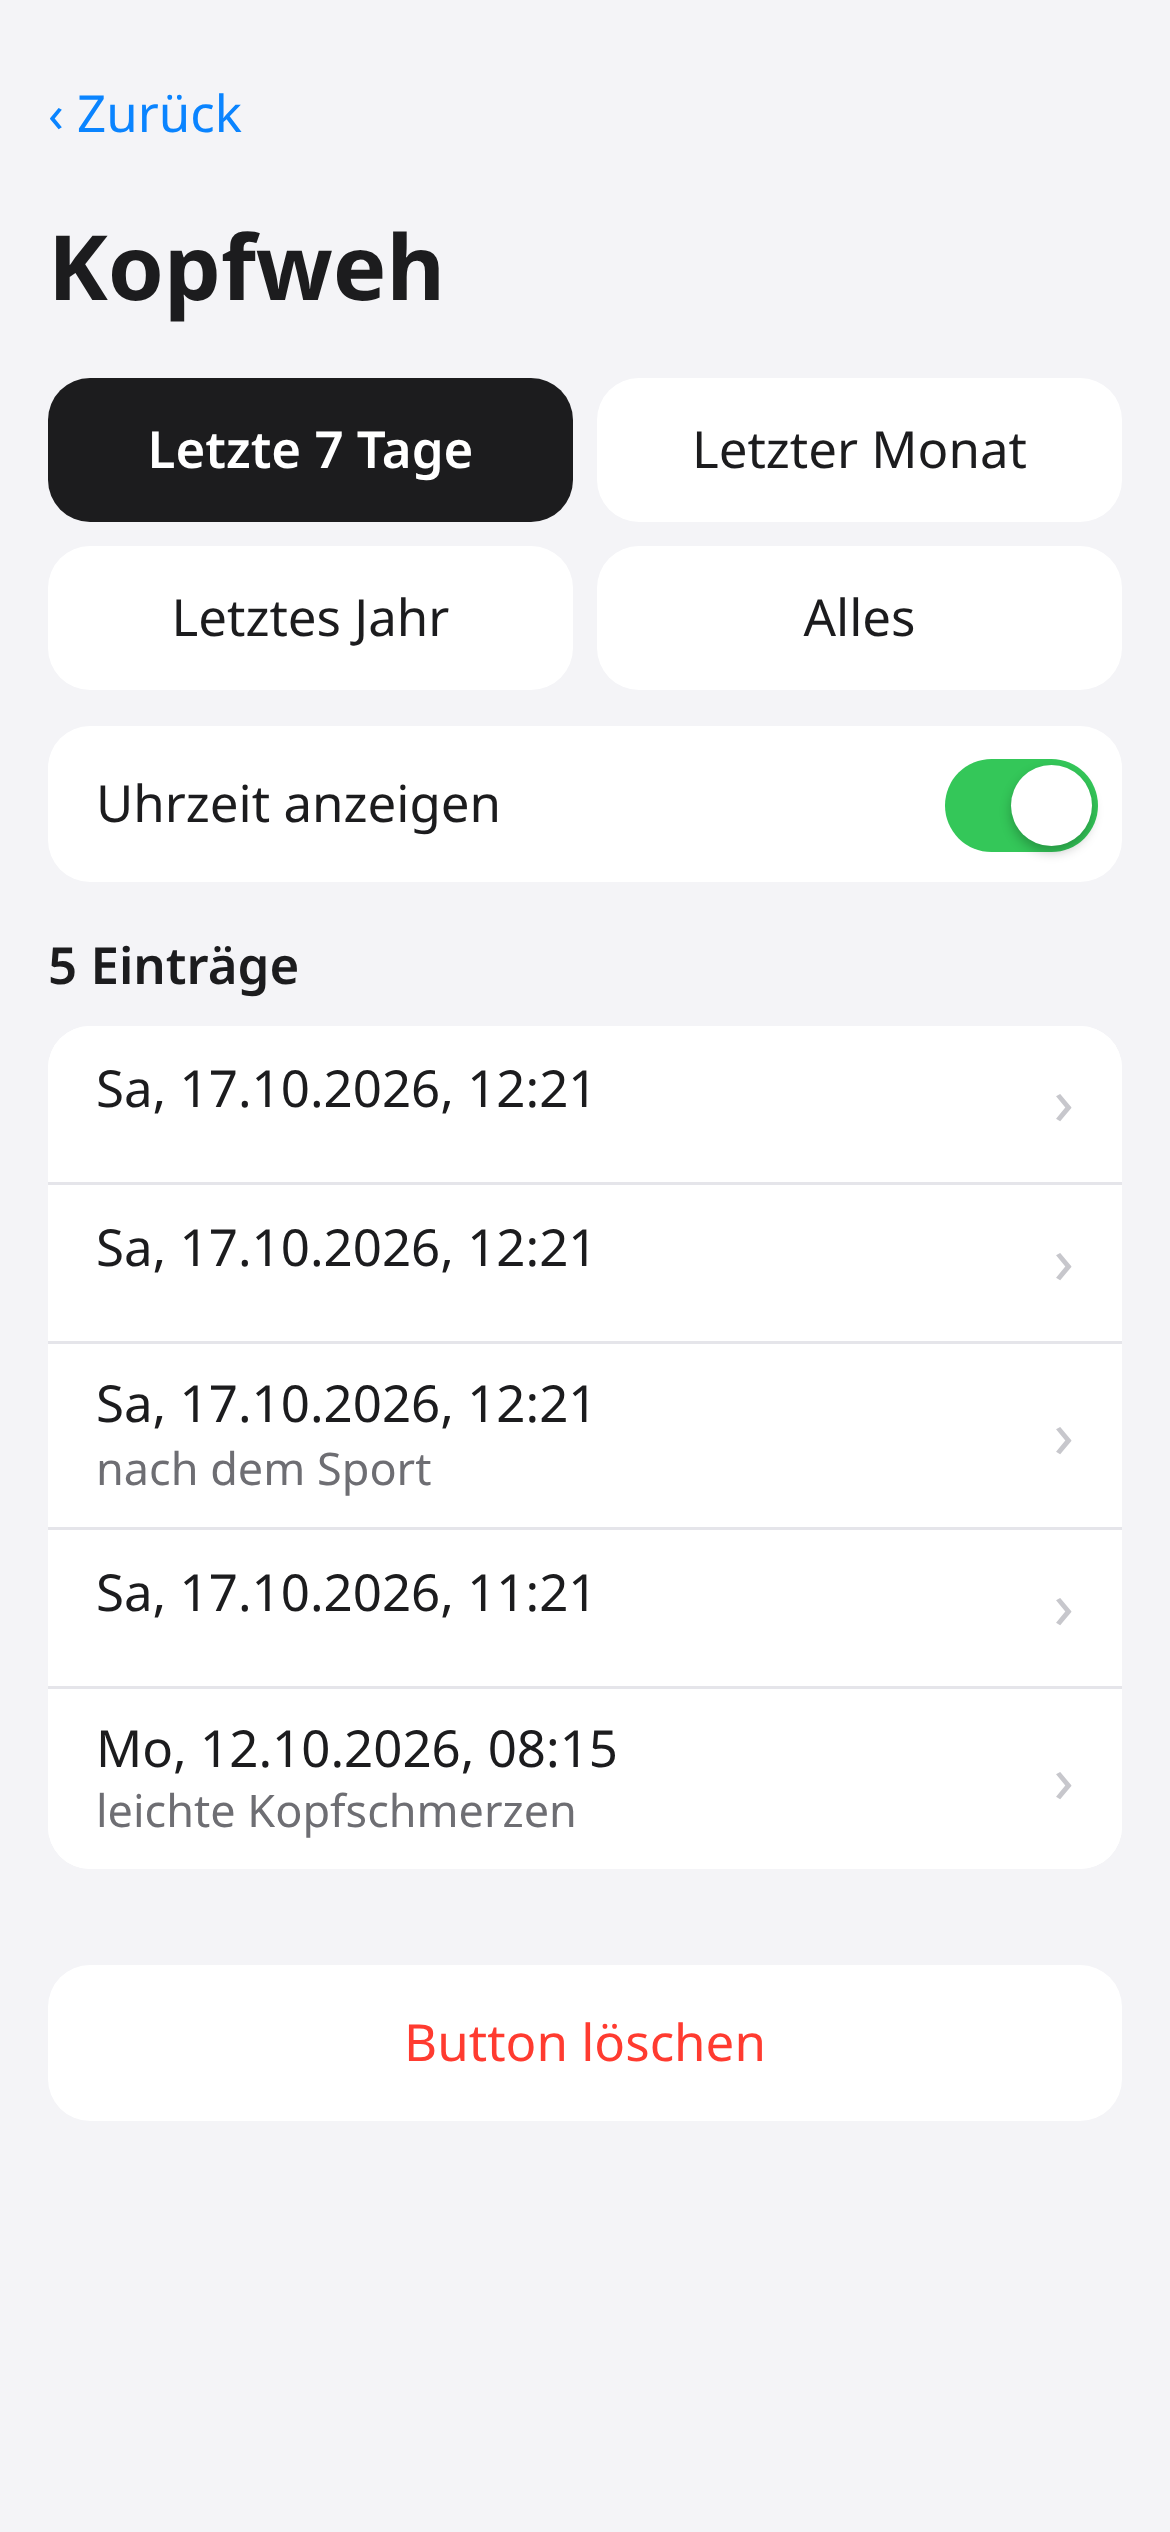
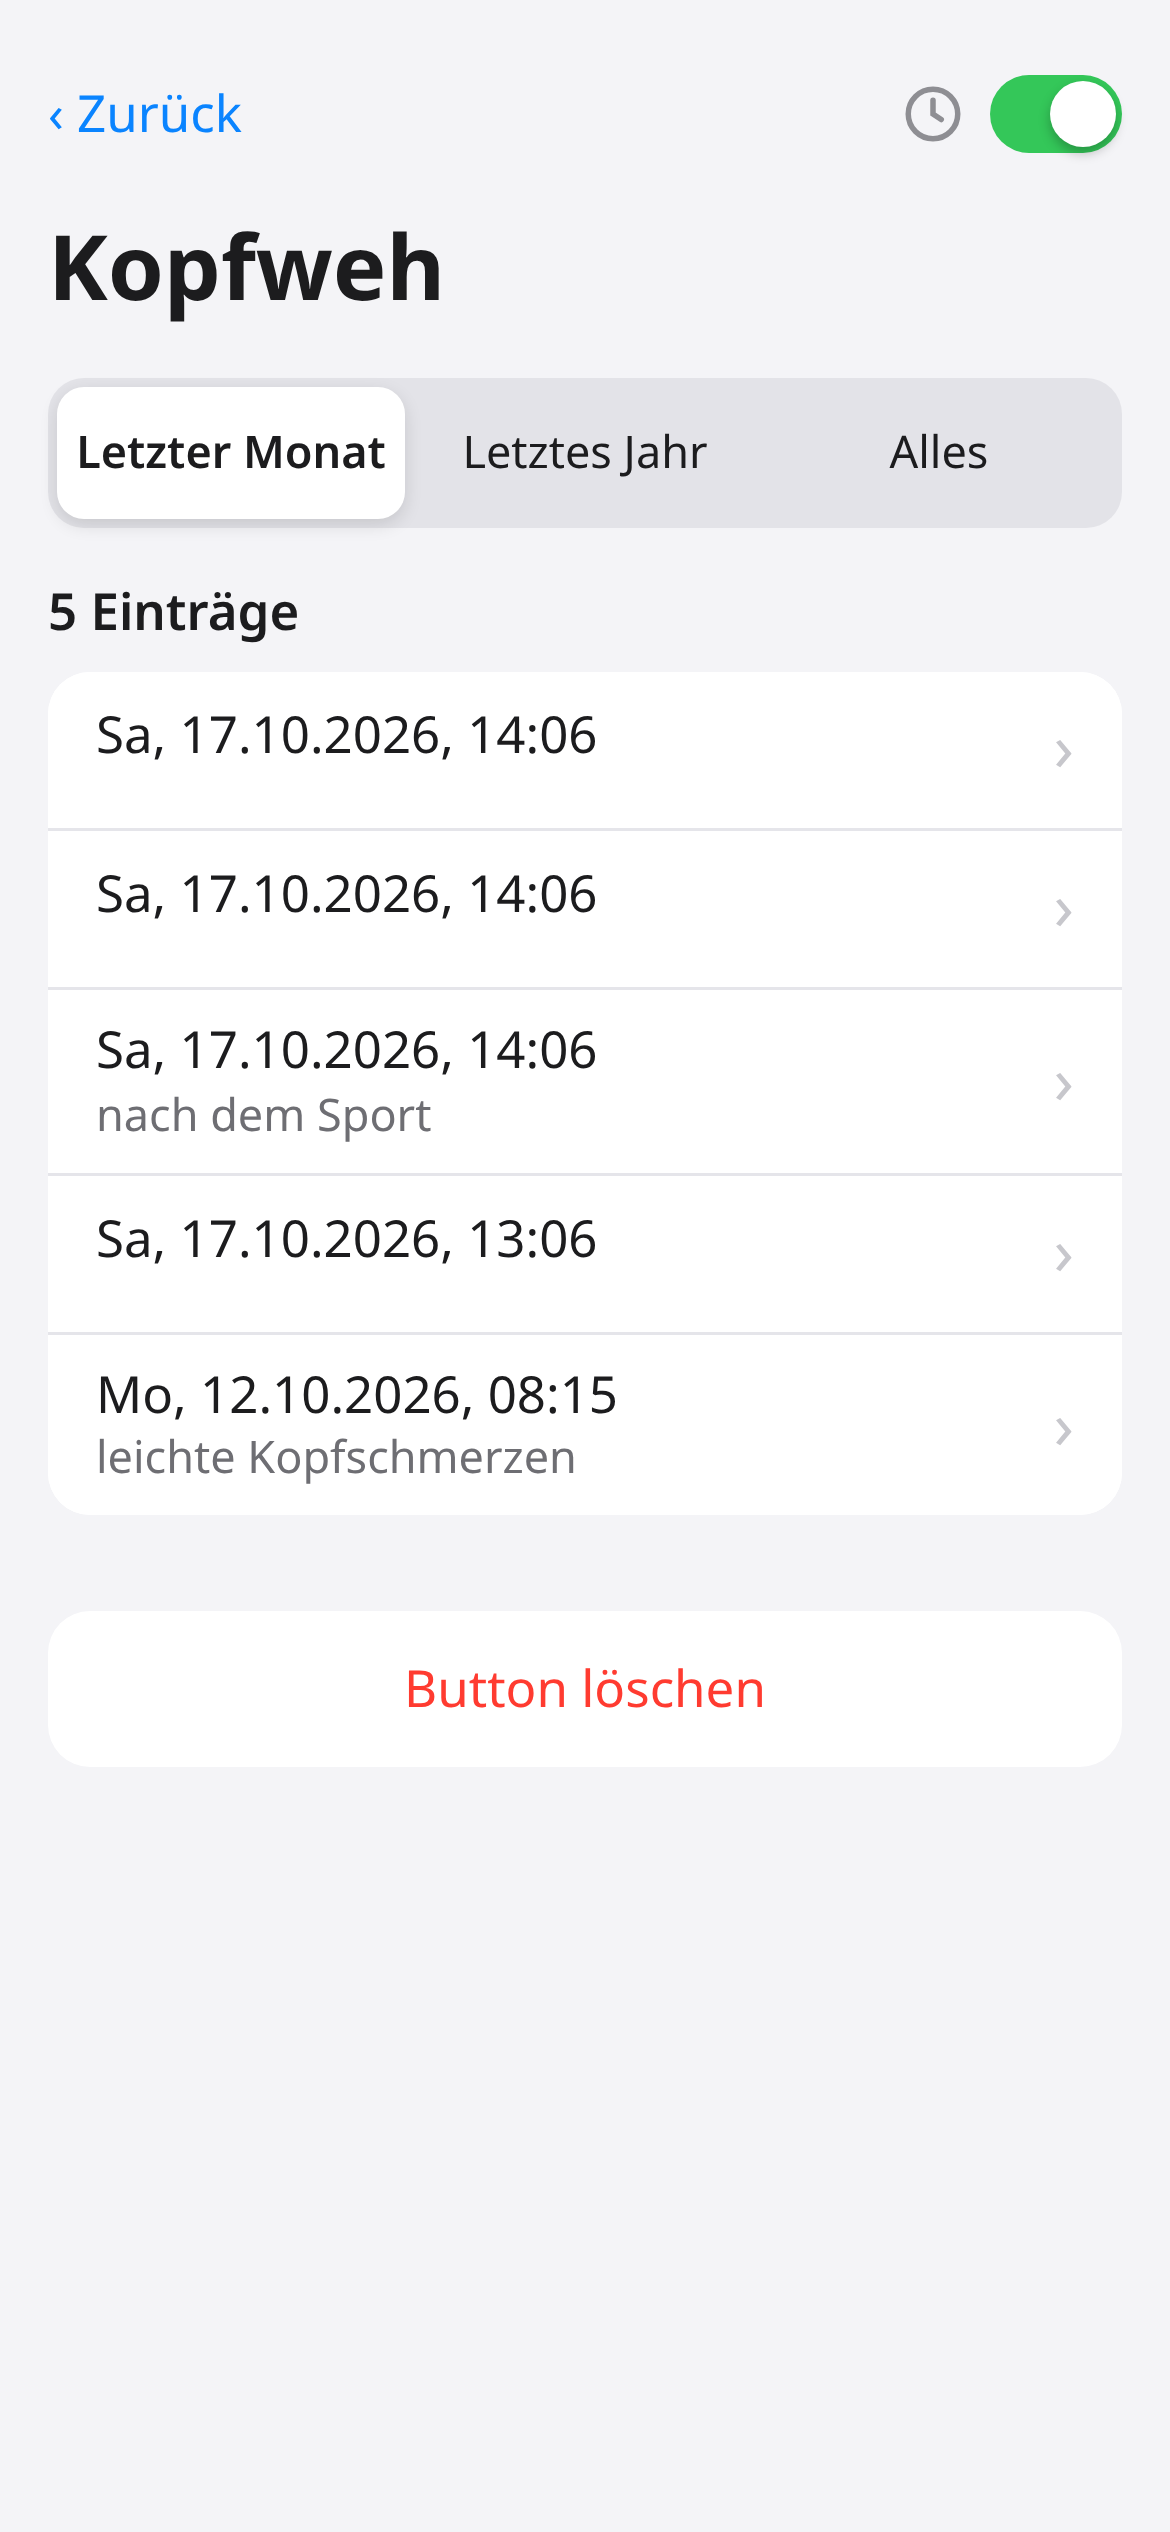
Liste: Filter Monat/Jahr/Alles in einer Zeile (Standard Monat), Uhrzeit-Schalter mit Uhr-Symbol oben rechts; SW-Cache v6

diff --git a/style.css b/style.css
@@ -19,9 +19,9 @@ button { cursor: pointer; color: inherit; background: #fff; }
 #add button { height: 52px; padding: 0 16px; background: #1c1c1e; color: #fff; font-weight: 600; }
 .hint { color: #8e8e93; }
 .link { background: none; color: #0a84ff; padding: 10px 0; min-height: 44px; }
-#filters { display: grid; grid-template-columns: 1fr 1fr; gap: 8px; }
-#filters button { min-height: 48px; }
-#filters .on { background: #1c1c1e; color: #fff; font-weight: 600; }
+#filters { display: grid; grid-template-columns: repeat(3, 1fr); gap: 2px; padding: 3px; background: #e3e3e8; border-radius: 12px; }
+#filters button { min-height: 44px; background: none; border-radius: 9px; font-size: 15px; padding: 0 4px; }
+#filters .on { background: #fff; font-weight: 600; box-shadow: 0 2px 6px rgba(0,0,0,.12); }
 #count { font-weight: 600; margin: 16px 0 8px; }
 #entries { list-style: none; padding: 0; margin: 0; background: #fff; border-radius: 14px; overflow: hidden; }
 #entries li { border-bottom: 1px solid #e5e5ea; }
@@ -30,11 +30,11 @@ button { cursor: pointer; color: inherit; background: #fff; }
 #entries button { display: grid; grid-template-columns: 1fr auto; width: 100%; min-height: 52px; padding: 8px 16px; text-align: left; border-radius: 0; align-items: center; }
 #entries small { grid-column: 1; color: #6e6e73; font-size: 15px; word-break: break-word; }
 #entries i { grid-column: 2; grid-row: 1 / span 2; color: #c7c7cc; font-style: normal; font-size: 22px; }
-.switch { display: flex; align-items: center; justify-content: space-between; margin-top: 12px; padding: 8px 8px 8px 16px; background: #fff; border-radius: 14px; min-height: 52px; }
-.switch input { appearance: none; -webkit-appearance: none; margin: 0; width: 51px; height: 31px; border-radius: 16px; background: #e5e5ea; position: relative; transition: background .2s; cursor: pointer; }
-.switch input::after { content: ""; position: absolute; top: 2px; left: 2px; width: 27px; height: 27px; border-radius: 50%; background: #fff; box-shadow: 0 2px 4px rgba(0,0,0,.25); transition: transform .2s; }
+.switch { display: flex; align-items: center; gap: 8px; min-height: 44px; color: #8e8e93; cursor: pointer; }
+.switch input { appearance: none; -webkit-appearance: none; margin: 0; width: 44px; height: 26px; border-radius: 13px; background: #e5e5ea; position: relative; transition: background .2s; cursor: pointer; }
+.switch input::after { content: ""; position: absolute; top: 2px; left: 2px; width: 22px; height: 22px; border-radius: 50%; background: #fff; box-shadow: 0 2px 4px rgba(0,0,0,.25); transition: transform .2s; }
 .switch input:checked { background: #34c759; }
-.switch input:checked::after { transform: translateX(20px); }
+.switch input:checked::after { transform: translateX(18px); }
 dialog { width: 100%; max-width: 500px; margin: auto auto 0; border: 0; border-radius: 20px 20px 0 0; padding: 20px max(20px, env(safe-area-inset-left)) calc(20px + env(safe-area-inset-bottom)); background: #f4f4f7; color: inherit; }
 dialog::backdrop { background: rgba(0,0,0,.4); }
 dialog h2 { outline: none; margin: 0 0 16px; font-size: 22px; }

diff --git a/app.js b/app.js
@@ -2,7 +2,7 @@ import * as S from './store.js';
 
 const KEY = 'tracker-v1';
 let state = (() => { try { return S.normalize(JSON.parse(localStorage.getItem(KEY))); } catch { return S.emptyState(); } })();
-let current = null, period = '7d', editing = null, toastTimer;
+let current = null, period = 'month', editing = null, toastTimer;
 const $ = id => document.getElementById(id);
 const esc = t => t.replace(/[&<>"]/g, c => ({ '&': '&amp;', '<': '&lt;', '>': '&gt;', '"': '&quot;' }[c]));
 const save = () => localStorage.setItem(KEY, JSON.stringify(state));
@@ -58,7 +58,7 @@ document.addEventListener('click', ev => {
     t.classList.remove('flash'); void t.offsetWidth; t.classList.add('flash');
     navigator.vibrate?.(30);
     toast(`Gespeichert ${S.formatTime(ts)}`, id);
-  } else if (d.open) { current = d.open; period = '7d'; render(); scrollTo(0, 0); }
+  } else if (d.open) { current = d.open; period = 'month'; render(); scrollTo(0, 0); }
   else if (d.period) { period = d.period; render(); }
   else if (d.edit) openEdit(d.edit);
   else if (t.id === 'editmode') t.textContent = $('main').classList.toggle('editing') ? 'Fertig' : 'Bearbeiten';

diff --git a/store.js b/store.js
@@ -1,5 +1,5 @@
 // Reine Datenlogik (ohne DOM) – im Browser und in Node testbar.
-export const PERIODS = { '7d': 'Letzte 7 Tage', month: 'Letzter Monat', year: 'Letztes Jahr', all: 'Alles' };
+export const PERIODS = { month: 'Letzter Monat', year: 'Letztes Jahr', all: 'Alles' };
 const DAYS = ['So', 'Mo', 'Di', 'Mi', 'Do', 'Fr', 'Sa'];
 const uid = () => Date.now().toString(36) + Math.random().toString(36).slice(2, 8);
 
@@ -50,8 +50,7 @@ export const setSetting = (s, key, value) => ({ ...s, settings: { ...s.settings,
 
 export function periodStart(period, now = Date.now()) {
   const d = new Date(now);
-  if (period === '7d') d.setDate(d.getDate() - 7);
-  else if (period === 'month') d.setMonth(d.getMonth() - 1);
+  if (period === 'month') d.setMonth(d.getMonth() - 1);
   else if (period === 'year') d.setFullYear(d.getFullYear() - 1);
   else return -Infinity;
   return d.getTime();

diff --git a/index.html b/index.html
@@ -24,10 +24,15 @@
   </form>
 </section>
 <section id="detail" hidden>
-  <button id="back" class="link">‹ Zurück</button>
+  <header>
+    <button id="back" class="link">‹ Zurück</button>
+    <label class="switch" title="Uhrzeit anzeigen">
+      <svg viewBox="0 0 24 24" width="22" height="22" fill="none" stroke="currentColor" stroke-width="2" stroke-linecap="round" aria-hidden="true"><circle cx="12" cy="12" r="9"/><path d="M12 7v5l3 2"/></svg>
+      <input type="checkbox" id="showtime" role="switch" aria-label="Uhrzeit anzeigen">
+    </label>
+  </header>
   <h1 id="title"></h1>
   <div id="filters"></div>
-  <label class="switch">Uhrzeit anzeigen <input type="checkbox" id="showtime" role="switch"></label>
   <p id="count"></p>
   <ul id="entries"></ul>
   <button id="remove" class="danger">Button löschen</button>

diff --git a/sw.js b/sw.js
@@ -1,5 +1,5 @@
 // Offline: erst Netz (am Browser-Cache vorbei, damit Updates sofort ankommen), bei Fehler aus dem Cache. Daten liegen in localStorage, nicht hier.
-const CACHE = 'tracker-v5';
+const CACHE = 'tracker-v6';
 const FILES = ['./', 'index.html', 'style.css', 'app.js', 'store.js', 'manifest.json', 'icons/icon-180.png', 'icons/icon-512.png'];
 self.addEventListener('install', e => { e.waitUntil(caches.open(CACHE).then(c => c.addAll(FILES))); self.skipWaiting(); });
 self.addEventListener('activate', e => e.waitUntil(caches.keys().then(ks => Promise.all(ks.filter(k => k !== CACHE).map(k => caches.delete(k)))).then(() => self.clients.claim())));

diff --git a/test/store.test.js b/test/store.test.js
@@ -30,10 +30,10 @@ test('Zeitraum-Filter', () => {
   const ages = { d1: 1, d6: 6, d8: 8, d20: 20, d40: 40, d200: 200, d400: 400 };
   for (const [id, a] of Object.entries(ages)) s = S.addEntry(s, 'a', now - a * day, id);
   const ids = p => S.entriesFor(s, 'a', p, now).map(e => e.id);
-  assert.deepEqual(ids('7d'), ['d1', 'd6']);
   assert.deepEqual(ids('month'), ['d1', 'd6', 'd8', 'd20']);
   assert.deepEqual(ids('year'), ['d1', 'd6', 'd8', 'd20', 'd40', 'd200']);
   assert.equal(ids('all').length, 7);
+  assert.deepEqual(Object.keys(S.PERIODS), ['month', 'year', 'all']);
 });
 
 test('Deutsches Datumsformat', () => {

diff --git a/test/e2e.py b/test/e2e.py
@@ -24,7 +24,13 @@ with sync_playwright() as p:
     pg.evaluate("""() => localStorage.setItem('tracker-v1', JSON.stringify({buttons:[{id:'b1',name:'Kopfweh'}],
       entries:[{id:'o1',buttonId:'b1',ts:Date.now()-3600e3},{id:'o2',buttonId:'b1',ts:Date.now()-40*864e5}]}))""")
     pg.reload()
-    pg.locator('[data-open]').first.tap(); count(1)
+    pg.locator('[data-open]').first.tap(); count(1)   # Standard: Letzter Monat
+    expect(pg.locator('#filters button')).to_have_text(['Letzter Monat', 'Letztes Jahr', 'Alles'])
+    expect(pg.locator('#filters .on')).to_have_text('Letzter Monat')
+    assert len({round(pg.locator('#filters button').nth(i).bounding_box()['y']) for i in range(3)}) == 1  # eine Zeile
+    sw, bk = pg.locator('#showtime').bounding_box(), pg.locator('#back').bounding_box()
+    assert abs((sw['y'] + sw['height'] / 2) - (bk['y'] + bk['height'] / 2)) < 8 and sw['x'] > 250, (sw, bk)  # oben rechts
+    expect(pg.locator('#showtime')).to_have_attribute('aria-label', 'Uhrzeit anzeigen')
     pg.click('[data-period=all]'); count(2)
     pg.click('#back')
 
@@ -48,9 +54,10 @@ with sync_playwright() as p:
     pg.fill('#edit-ts', f'{target:%Y-%m-%d}T08:15'); pg.fill('#edit-note', 'leichte Kopfschmerzen')
     time.sleep(0.3); pg.screenshot(path=f'{SHOTS}/04-edit-dialog.png')
     pg.click('#editor button[value=save]')
+    expect(pg.locator('#entries [data-edit]').last).to_contain_text(f'{exp}, 08:15')  # close-Event ist asynchron
     texts = pg.locator('#entries [data-edit]').all_inner_texts()
     assert texts[-1].startswith(f'{exp}, 08:15') and 'leichte Kopfschmerzen' in texts[-1], texts  # neu sortiert
-    pg.click('[data-period="7d"]'); count(5)   # jetzt innerhalb der letzten 7 Tage
+    pg.click('[data-period=month]'); count(5)   # jetzt innerhalb des letzten Monats
     # Abbrechen ändert nichts
     pg.locator('#entries [data-edit]').first.click(); pg.fill('#edit-note', 'XXX'); pg.click('#editor button[value=cancel]')
     expect(pg.locator('#entries')).not_to_contain_text('XXX')
